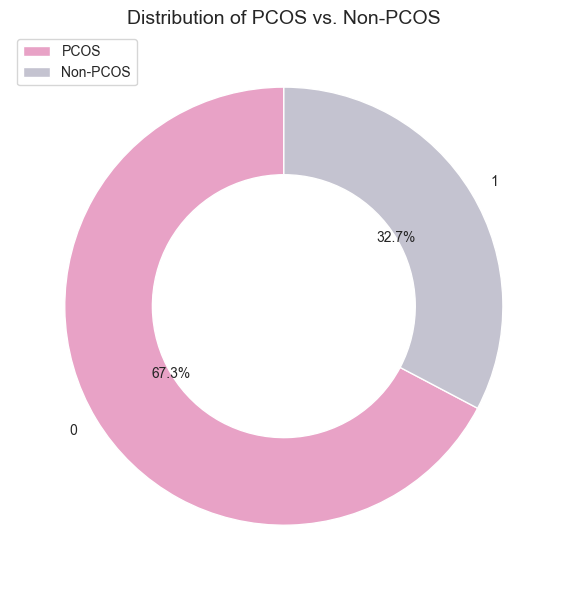
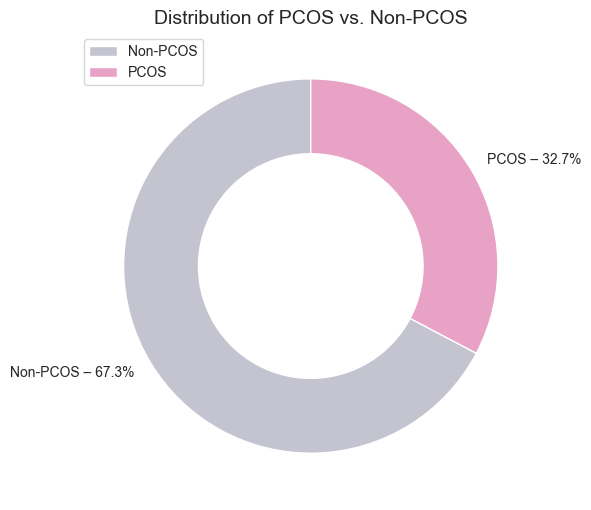
updates to graph 1 and 2

diff --git a/frontend/.ipynb_checkpoints/pcos_dashboard-checkpoint.py b/frontend/.ipynb_checkpoints/pcos_dashboard-checkpoint.py
@@ -99,7 +99,7 @@ def pcos_dashboard_page():
     st.markdown("""
         <div style='background-color: #f9f9f9; padding: 20px; border-radius: 10px; margin-bottom: 20px; border: 2px solid #CDC1FF;'>
             <h2 style='color: #9C89FB;'>Insight 1: The Growing Challenge - PCOS Prevalence</h2>
-            <p>PCOS affects millions of people worldwide, yet it remains widely underdiagnosed. The first step toward better management of this condition is understanding its prevalence. This shows the alarming number of undiagnosed cases.</p>
+            <p>PCOS affects millions of people around the world, but many don’t even know they have it. This is because PCOS is often not diagnosed, and many people overlook the symptoms. Understanding how common PCOS is is the first step toward managing it better. This section highlights an alarming number of people with undiagnosed PCOS, which is a major issue.</p>
         </div>
     """, unsafe_allow_html=True)
 
@@ -107,15 +107,16 @@ def pcos_dashboard_page():
     display_image_and_explanation(
         "undiagnosed_pcos_distribution.png", 
         "Undiagnosed PCOS Cases Distribution", 
-        "This chart shows the percentage of people who have PCOS but remain undiagnosed as 70%, highlighting the need for better awareness and screening. This insight was gathered from the research conducted by Adla et al. (2021)."
+        "This chart shows the percentage of people who have PCOS but remain undiagnosed as 70%, highlighting the need for better awareness and screening. This insight was gathered from the research <a href='https://doi.org/10.1109/ICABME53305.2021.9604905' target='_blank'>Automated Detection of Polycystic Ovary Syndrome Using Machine Learning Techniques</a>."
+
     )
 
 
-    # 2: The Faces of PCOS - Symptoms Breakdown
+    # 2: The Impact of PCOS - Prevalence Breakdown
     st.markdown("""
         <div style='background-color: #f9f9f9; padding: 20px; border-radius: 10px; margin-bottom: 20px; border: 2px solid #CDC1FF;'>
-            <h2 style='color: #9C89FB;'>Insight 2: The Faces of PCOS - Common Symptoms</h2>
-            <p>PCOS affects a significant number of individuals worldwide, but many are still undiagnosed. Despite its prevalence, awareness remains low, making it challenging for people to seek the help they need. This section, shows the widespread nature of PCOS, shedding light on how common it is and the importance of early diagnosis and intervention. Understanding its impact is the first step toward effective management and care.</p>
+            <h2 style='color: #9C89FB;'>Insight 2: The Impact of PCOS - Prevalence Breakdown</h2>
+            <p>PCOS is a common condition that affects many individuals worldwide, but many people are still undiagnosed. Its symptoms can often be easy to overlook, making it challenging for people to seek the help they need. In this section, we highlight how widespread PCOS is in the population and why it's so important to raise awareness. Understanding how common it is helps spread the word about PCOS and encourages early diagnosis and treatment, leading to better care and management.</p>
         </div>
     """, unsafe_allow_html=True)
 
@@ -123,8 +124,7 @@ def pcos_dashboard_page():
     display_image_and_explanation(
         "pcos_distribution_donut_chart.png", 
         "PCOS Prevalence Donut Chart", 
-        "A donut chart illustrating the proportion of diagnosed versus undiagnosed PCOS cases in the surveyed population, where around 33% of the population was found to have PCOS. This highlights the importance of awareness and early detection of PCOS."
-
+        "This donut chart shows the percentage of people in the survey who have PCOS compared to those who don't. About 33% of the people in the survey were found to have PCOS. This highlights how important it is to be aware of the condition and get checked early."
     )
     
 
@@ -132,7 +132,7 @@ def pcos_dashboard_page():
     st.markdown("""
         <div style='background-color: #f9f9f9; padding: 20px; border-radius: 10px; margin-bottom: 20px; border: 2px solid #CDC1FF;'>
             <h2 style='color: #9C89FB;'>Insight 3: The Faces of PCOS - Common Symptoms Breakdown</h2>
-            <p>PCOS presents itself through a variety of symptoms that can significantly affect the quality of life. Among the most frequently reported symptoms are pimples, weight gain, skin darkening, hair loss, and excessive hair growth. Understanding these symptoms is crucial for individuals to seek the appropriate treatment. Lifestyle changes, including diet and exercise, can help manage these symptoms and improve overall well-being.</p>
+            <p>PCOS can cause a variety of symptoms that affect a person’s daily life. Some of the most common symptoms include pimples, weight gain, skin darkening, hair loss, and extra hair growth. It’s important to recognize these signs, as they can help people seek the right treatment. Lifestyle changes can help manage these symptoms and improve overall well-being.</p>
         </div>
     """, unsafe_allow_html=True)
 

diff --git a/frontend/pcos_dashboard.py b/frontend/pcos_dashboard.py
@@ -99,7 +99,7 @@ def pcos_dashboard_page():
     st.markdown("""
         <div style='background-color: #f9f9f9; padding: 20px; border-radius: 10px; margin-bottom: 20px; border: 2px solid #CDC1FF;'>
             <h2 style='color: #9C89FB;'>Insight 1: The Growing Challenge - PCOS Prevalence</h2>
-            <p>PCOS affects millions of people worldwide, yet it remains widely underdiagnosed. The first step toward better management of this condition is understanding its prevalence. This shows the alarming number of undiagnosed cases.</p>
+            <p>PCOS affects millions of people around the world, but many don’t even know they have it. This is because PCOS is often not diagnosed, and many people overlook the symptoms. Understanding how common PCOS is is the first step toward managing it better. This section highlights an alarming number of people with undiagnosed PCOS, which is a major issue.</p>
         </div>
     """, unsafe_allow_html=True)
 
@@ -107,15 +107,16 @@ def pcos_dashboard_page():
     display_image_and_explanation(
         "undiagnosed_pcos_distribution.png", 
         "Undiagnosed PCOS Cases Distribution", 
-        "This chart shows the percentage of people who have PCOS but remain undiagnosed as 70%, highlighting the need for better awareness and screening. This insight was gathered from the research conducted by Adla et al. (2021)."
+        "This chart shows the percentage of people who have PCOS but remain undiagnosed as 70%, highlighting the need for better awareness and screening. This insight was gathered from the research <a href='https://doi.org/10.1109/ICABME53305.2021.9604905' target='_blank'>Automated Detection of Polycystic Ovary Syndrome Using Machine Learning Techniques</a>."
+
     )
 
 
-    # 2: The Faces of PCOS - Symptoms Breakdown
+    # 2: The Impact of PCOS - Prevalence Breakdown
     st.markdown("""
         <div style='background-color: #f9f9f9; padding: 20px; border-radius: 10px; margin-bottom: 20px; border: 2px solid #CDC1FF;'>
-            <h2 style='color: #9C89FB;'>Insight 2: The Faces of PCOS - Common Symptoms</h2>
-            <p>PCOS affects a significant number of individuals worldwide, but many are still undiagnosed. Despite its prevalence, awareness remains low, making it challenging for people to seek the help they need. This section, shows the widespread nature of PCOS, shedding light on how common it is and the importance of early diagnosis and intervention. Understanding its impact is the first step toward effective management and care.</p>
+            <h2 style='color: #9C89FB;'>Insight 2: The Impact of PCOS - Prevalence Breakdown</h2>
+            <p>PCOS is a common condition that affects many individuals worldwide, but many people are still undiagnosed. Its symptoms can often be easy to overlook, making it challenging for people to seek the help they need. In this section, we highlight how widespread PCOS is in the population and why it's so important to raise awareness. Understanding how common it is helps spread the word about PCOS and encourages early diagnosis and treatment, leading to better care and management.</p>
         </div>
     """, unsafe_allow_html=True)
 
@@ -123,8 +124,7 @@ def pcos_dashboard_page():
     display_image_and_explanation(
         "pcos_distribution_donut_chart.png", 
         "PCOS Prevalence Donut Chart", 
-        "A donut chart illustrating the proportion of diagnosed versus undiagnosed PCOS cases in the surveyed population, where around 33% of the population was found to have PCOS. This highlights the importance of awareness and early detection of PCOS."
-
+        "This donut chart shows the percentage of people in the survey who have PCOS compared to those who don't. About 33% of the people in the survey were found to have PCOS. This highlights how important it is to be aware of the condition and get checked early."
     )
     
 
@@ -132,7 +132,7 @@ def pcos_dashboard_page():
     st.markdown("""
         <div style='background-color: #f9f9f9; padding: 20px; border-radius: 10px; margin-bottom: 20px; border: 2px solid #CDC1FF;'>
             <h2 style='color: #9C89FB;'>Insight 3: The Faces of PCOS - Common Symptoms Breakdown</h2>
-            <p>PCOS presents itself through a variety of symptoms that can significantly affect the quality of life. Among the most frequently reported symptoms are pimples, weight gain, skin darkening, hair loss, and excessive hair growth. Understanding these symptoms is crucial for individuals to seek the appropriate treatment. Lifestyle changes, including diet and exercise, can help manage these symptoms and improve overall well-being.</p>
+            <p>PCOS can cause a variety of symptoms that affect a person’s daily life. Some of the most common symptoms include pimples, weight gain, skin darkening, hair loss, and extra hair growth. It’s important to recognize these signs, as they can help people seek the right treatment. Lifestyle changes can help manage these symptoms and improve overall well-being.</p>
         </div>
     """, unsafe_allow_html=True)
 
